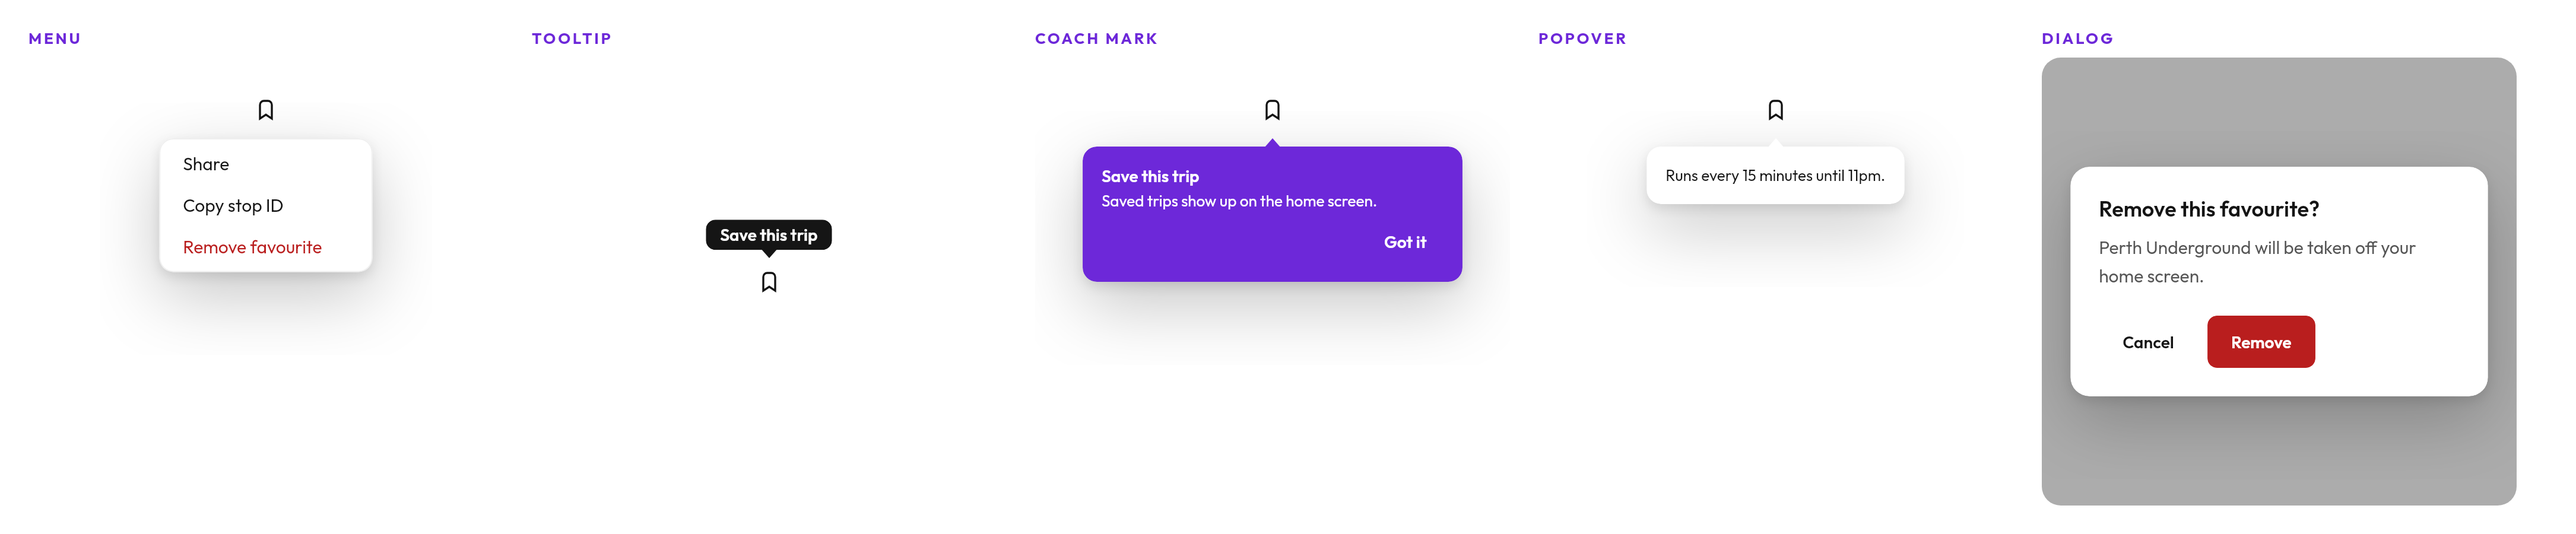
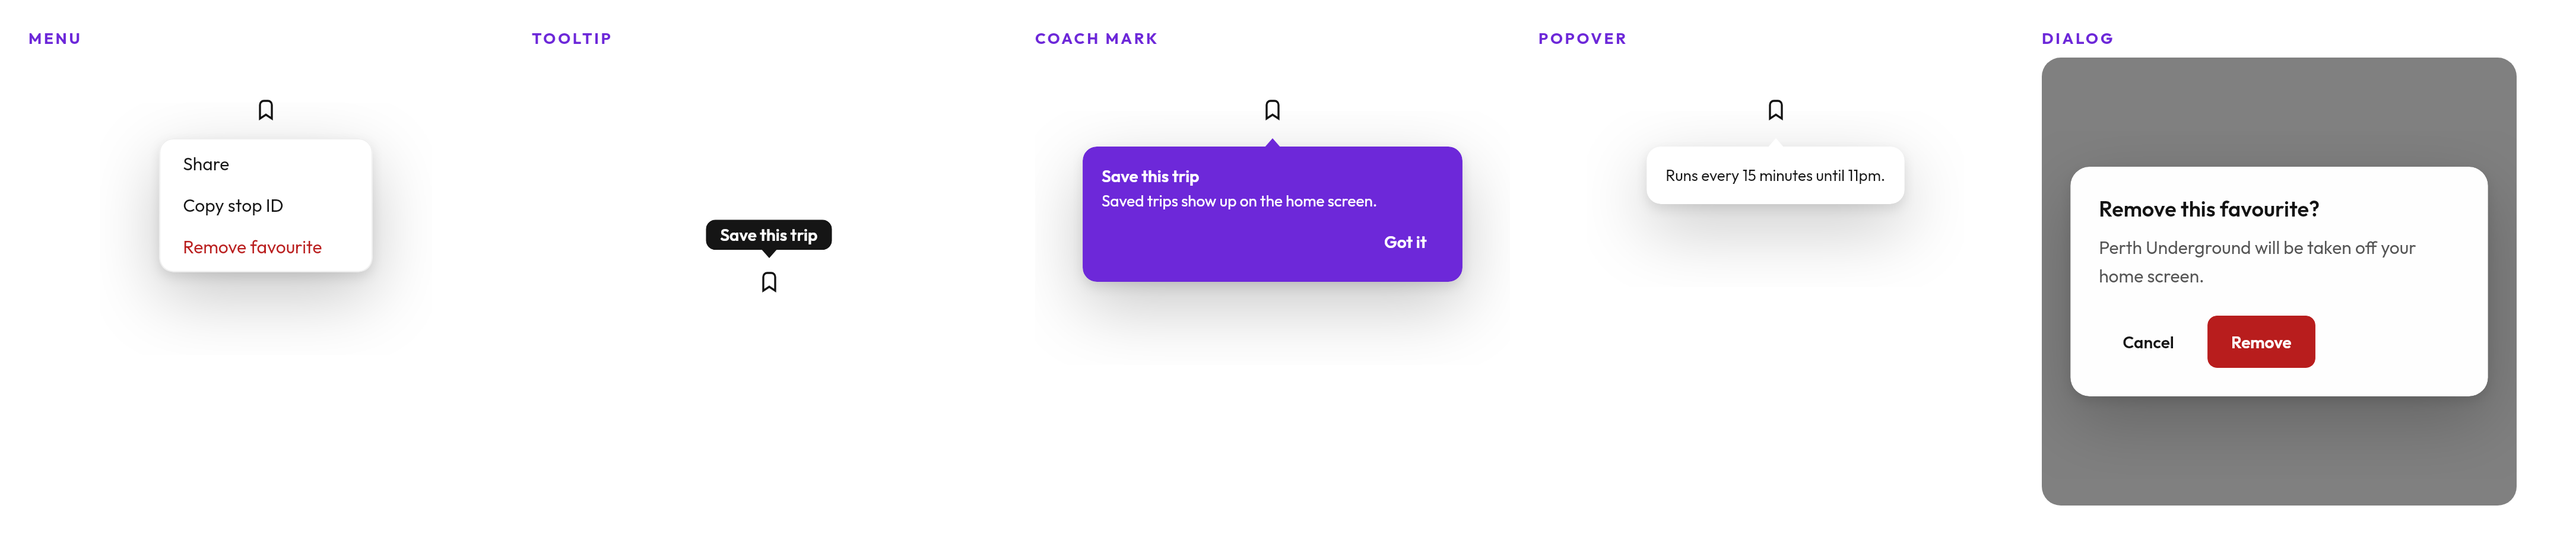
Tie every scrim to the thing it dims
Reported as the background and the overlay coming apart on the way out — worst
on modal sheets, not right anywhere.

They were two animations describing one event. `Scrim` ran its own 220ms tween on
the standard easing; the panel in front of it left on a 150ms tween on the exit
easing; and a modal sheet did neither, sliding on `springGentle` through a
`SheetState` the host knows nothing about. A spring and a tween disagree most in
the middle, which is why the sheet was the worst of them: the dimming was gone
with the sheet still halfway down the screen.

The scrim no longer animates its own opacity. It takes a fraction — how far in
the thing in front of it is — and is simply that much dark. For anything the host
drives, that fraction *is* the panel's own progress, so the two are the same
number by construction rather than by two tunings agreeing.

An entry that animates itself now says so: `OverlayEntry.visibility`.
`ModalBottomSheet` passes `SheetState.visibleFraction`, which is the sheet's real
on-screen extent, so the scrim tracks the spring exactly. Note that is absolute
rather than `SheetState.progress`, which measures travel between two detents and
reads 1 whenever the sheet has settled anywhere — including hidden.

The fraction is a lambda read in the draw phase. It changes every frame, and
reading it during composition would recompose the scrim and everything beneath it
once per frame for a colour change.
[…]

Changed region(s): [[0.7776, 0.0933, 0.9954, 0.9644]]

diff --git a/ui-catalog/src/jvmTest/kotlin/io/kontour/ui/catalog/OverlayMotionScreenshotTest.kt b/ui-catalog/src/jvmTest/kotlin/io/kontour/ui/catalog/OverlayMotionScreenshotTest.kt
@@ -33,6 +33,9 @@ import io.kontour.ui.overlay.Popover
 import io.kontour.ui.overlay.Tooltip
 import io.kontour.ui.overlay.coachMark
 import io.kontour.ui.overlay.rememberOverlayQueue
+import io.kontour.ui.sheet.ModalBottomSheet
+import io.kontour.ui.sheet.SheetHeader
+import io.kontour.ui.sheet.SideSheet
 import io.kontour.ui.theme.KontourTheme
 import io.kontour.ui.theme.Theme
 import kotlin.test.Test
@@ -115,6 +118,69 @@ class OverlayMotionScreenshotTest {
             }
         }
         assertTrue(file.length() > 0, "overlays-leaving rendered an empty file")
+    }
+
+    /**
+     * Sheets on their way out, with their scrims.
+     *
+     * The scrim and the thing it dims are one event, and they used to be drawn by
+     * two animations that disagreed about how long that event takes. A modal
+     * sheet was the worst of it: the sheet slides on `springGentle` while the
+     * scrim ran a 220ms tween, so the dimming was gone with the sheet still
+     * halfway down the screen.
+     *
+     * A still frame catches that: a sheet only part-way out from the bottom, over
+     * a scrim that is still dark, is the two agreeing. A pale scrim behind a sheet
+     * that has barely moved is the bug.
+     */
+    @Test
+    fun rendersSheetsWhileTheyAreLeaving() {
+        val file = Screenshot.render(
+            name = "sheets-leaving",
+            width = 2000,
+            height = 1240,
+            frames = 26,
+        ) {
+            KontourTheme(darkTheme = false, reduceMotion = false) {
+                LeavingSheets(dismissAfterFrames = 20)
+            }
+        }
+        assertTrue(file.length() > 0, "sheets-leaving rendered an empty file")
+    }
+}
+
+/** A modal sheet and a side sheet, both dismissed part-way through the render. */
+@Composable
+private fun LeavingSheets(dismissAfterFrames: Int) {
+    val showing = remember { mutableStateOf(true) }
+    LaunchedEffect(Unit) {
+        repeat(dismissAfterFrames) { withFrameNanos { } }
+        showing.value = false
+    }
+
+    Surface(modifier = Modifier.fillMaxSize(), color = Theme.colors.background) {
+        Row(
+            modifier = Modifier.padding(Theme.spacing.lg),
+            horizontalArrangement = Arrangement.spacedBy(Theme.spacing.lg),
+        ) {
+            MotionPanel("Modal sheet") {
+                ModalBottomSheet(
+                    visible = showing.value,
+                    onDismissRequest = { showing.value = false },
+                ) {
+                    SheetHeader(title = "Rename favourite", supporting = "Perth Underground")
+                }
+            }
+            MotionPanel("Side sheet") {
+                SideSheet(
+                    visible = showing.value,
+                    onDismissRequest = { showing.value = false },
+                    width = 220.dp,
+                ) {
+                    SheetHeader(title = "Filters")
+                }
+            }
+        }
     }
 }
 

diff --git a/ui/src/commonMain/kotlin/io/kontour/ui/foundation/Scrim.kt b/ui/src/commonMain/kotlin/io/kontour/ui/foundation/Scrim.kt
@@ -27,6 +27,24 @@ import io.kontour.ui.theme.Theme
  * overlays gets one scrim at the right depth instead of several multiplying
  * into opacity.
  *
+ * ### The scrim does not animate itself
+ *
+ * [fraction] is how far in the thing *in front* of it is, and the scrim is
+ * simply that much dark. It used to run its own `animateColorAsState` — 220ms on
+ * the standard easing — while the overlay it belonged to left on a 150ms exit
+ * tween, or, for a modal sheet, on a gentle spring it knew nothing about. Two
+ * animations of different lengths and different shapes describing one event, so
+ * the dimming and the thing being dimmed always drifted apart. Worst on sheets,
+ * because a spring and a tween disagree most in the middle.
+ *
+ * A lambda rather than a value, read in the draw phase: the fraction changes
+ * every frame, and reading it during composition would recompose the scrim and
+ * everything under it for each one.
+ *
+ * The *colour* still animates, because that is a different event — a scrim stops
+ * being the darkened one when another overlay opens above it, and that swap is
+ * not tied to anything appearing or leaving.
+ *
  * @param onDismissRequest Called when the scrim is tapped. Pass `null` for a modal that
  *   must be dismissed explicitly — a destructive confirmation, say — and the
  *   scrim will still block input without offering a way out.
@@ -36,27 +54,27 @@ import io.kontour.ui.theme.Theme
  */
 @Composable
 fun Scrim(
-    visible: Boolean,
+    fraction: () -> Float,
     onDismissRequest: (() -> Unit)?,
     modifier: Modifier = Modifier,
     dismissLabel: String? = null,
     color: Color = Theme.colors.scrim,
 ) {
-    val target = if (visible) color else Color.Transparent
     val animated by animateColorAsState(
-        targetValue = target,
+        targetValue = color,
         animationSpec = Theme.motion.tweenDefault(),
-        label = "scrim",
+        label = "scrimColor",
     )
-
-    if (!visible && animated.alpha == 0f) return
 
     Box(
         modifier
             .fillMaxSize()
-            .drawBehind { drawRect(animated) }
+            .drawBehind {
+                val f = fraction().coerceIn(0f, 1f)
+                if (f > 0f) drawRect(animated.copy(alpha = animated.alpha * f))
+            }
             .then(
-                if (onDismissRequest != null && visible) {
+                if (onDismissRequest != null) {
                     Modifier
                         .pointerInput(onDismissRequest) {
                             detectTapGestures { onDismissRequest() }

diff --git a/ui/src/commonMain/kotlin/io/kontour/ui/overlay/OverlayHost.kt b/ui/src/commonMain/kotlin/io/kontour/ui/overlay/OverlayHost.kt
@@ -107,6 +107,19 @@ class OverlayEntry(
      */
     val managesOwnExit: Boolean = false,
     /**
+     * How far in this entry is, 0..1, for its scrim to match.
+     *
+     * `null` — the usual case — means the host's own progress, which is what
+     * drives the panel too, so the two are the same number by construction.
+     *
+     * An entry that animates itself has to say so. A modal sheet slides on its
+     * `SheetState`'s spring, which the host knows nothing about: left to the
+     * host's progress its scrim would fade over 150ms while the sheet was still
+     * travelling, which is the "background disappears before the sheet does"
+     * that reads as two separate events rather than one.
+     */
+    val visibility: (() -> Float)? = null,
+    /**
      * Called after this entry has been dismissed.
      *
      * `onDismiss`, not `onDismissRequest`, and the difference is not cosmetic:
@@ -276,10 +289,14 @@ private fun EntryHost(
 
     if (entry.scrim != ScrimStyle.None) {
         Scrim(
-            visible = !leaving,
-            onDismissRequest = if (entry.dismissOnOutside) {
+            // The same number the panel is drawn with, so the dimming and the
+            // thing it dims are one movement — see `Scrim`.
+            fraction = entry.visibility ?: { progress.value },
+            onDismissRequest = if (entry.dismissOnOutside && !leaving) {
                 { state.dismissOutside(entry) }
             } else {
+                // Still consumes taps on the way out; it just no longer offers a
+                // dismissal for something already dismissed.
                 null
             },
             dismissLabel = entry.dismissLabel,

diff --git a/ui/src/commonMain/kotlin/io/kontour/ui/sheet/SheetState.kt b/ui/src/commonMain/kotlin/io/kontour/ui/sheet/SheetState.kt
@@ -140,6 +140,25 @@ class SheetState internal constructor(
     val progress: Float get() = anchoredState.progress(currentDetent, targetDetent)
 
     /**
+     * How much of the sheet is on screen, 0..1 — what a scrim behind it matches.
+     *
+     * Not [progress], which measures travel between two detents and so reads 1
+     * whenever the sheet has settled anywhere, including hidden. This is
+     * absolute: 0 with the sheet off the bottom of the window, 1 with it fully
+     * out. A modal sheet's scrim is exactly this dark, so the two move as one.
+     *
+     * A sheet with an intermediate detent therefore dims proportionally on the
+     * way to it, which is the honest reading of "as dark as the sheet is
+     * present" — and modal sheets here are Hidden-to-Expanded by default, so it
+     * is 0 or 1 unless a caller asks for more.
+     */
+    val visibleFraction: Float
+        get() {
+            val height = sheetHeight
+            return if (height <= 0f) 0f else (visibleHeight / height).coerceIn(0f, 1f)
+        }
+
+    /**
      * Where the sheet should go once it has anchors.
      *
      * A screen that starts with its sheet open calls [animateTo] from a

diff --git a/ui/src/commonMain/kotlin/io/kontour/ui/sheet/BottomSheet.kt b/ui/src/commonMain/kotlin/io/kontour/ui/sheet/BottomSheet.kt
@@ -231,6 +231,12 @@ fun ModalBottomSheet(
                     // The sheet slides itself down and hides the entry when it
                     // has landed — see the `else` branch below.
                     managesOwnExit = true,
+                    // The sheet slides on its own spring, so the scrim has to
+                    // follow the sheet rather than the host's fade — otherwise
+                    // the dimming is gone while the sheet is still on its way
+                    // down. This is the worst of the desyncs, because a spring
+                    // and a tween disagree most in the middle.
+                    visibility = { state.visibleFraction },
                     // Tell the caller, not just the sheet. This used to only
                     // launch `state.hide()`, so after an outside tap the host
                     // had dropped the entry while the caller's `visible` was
